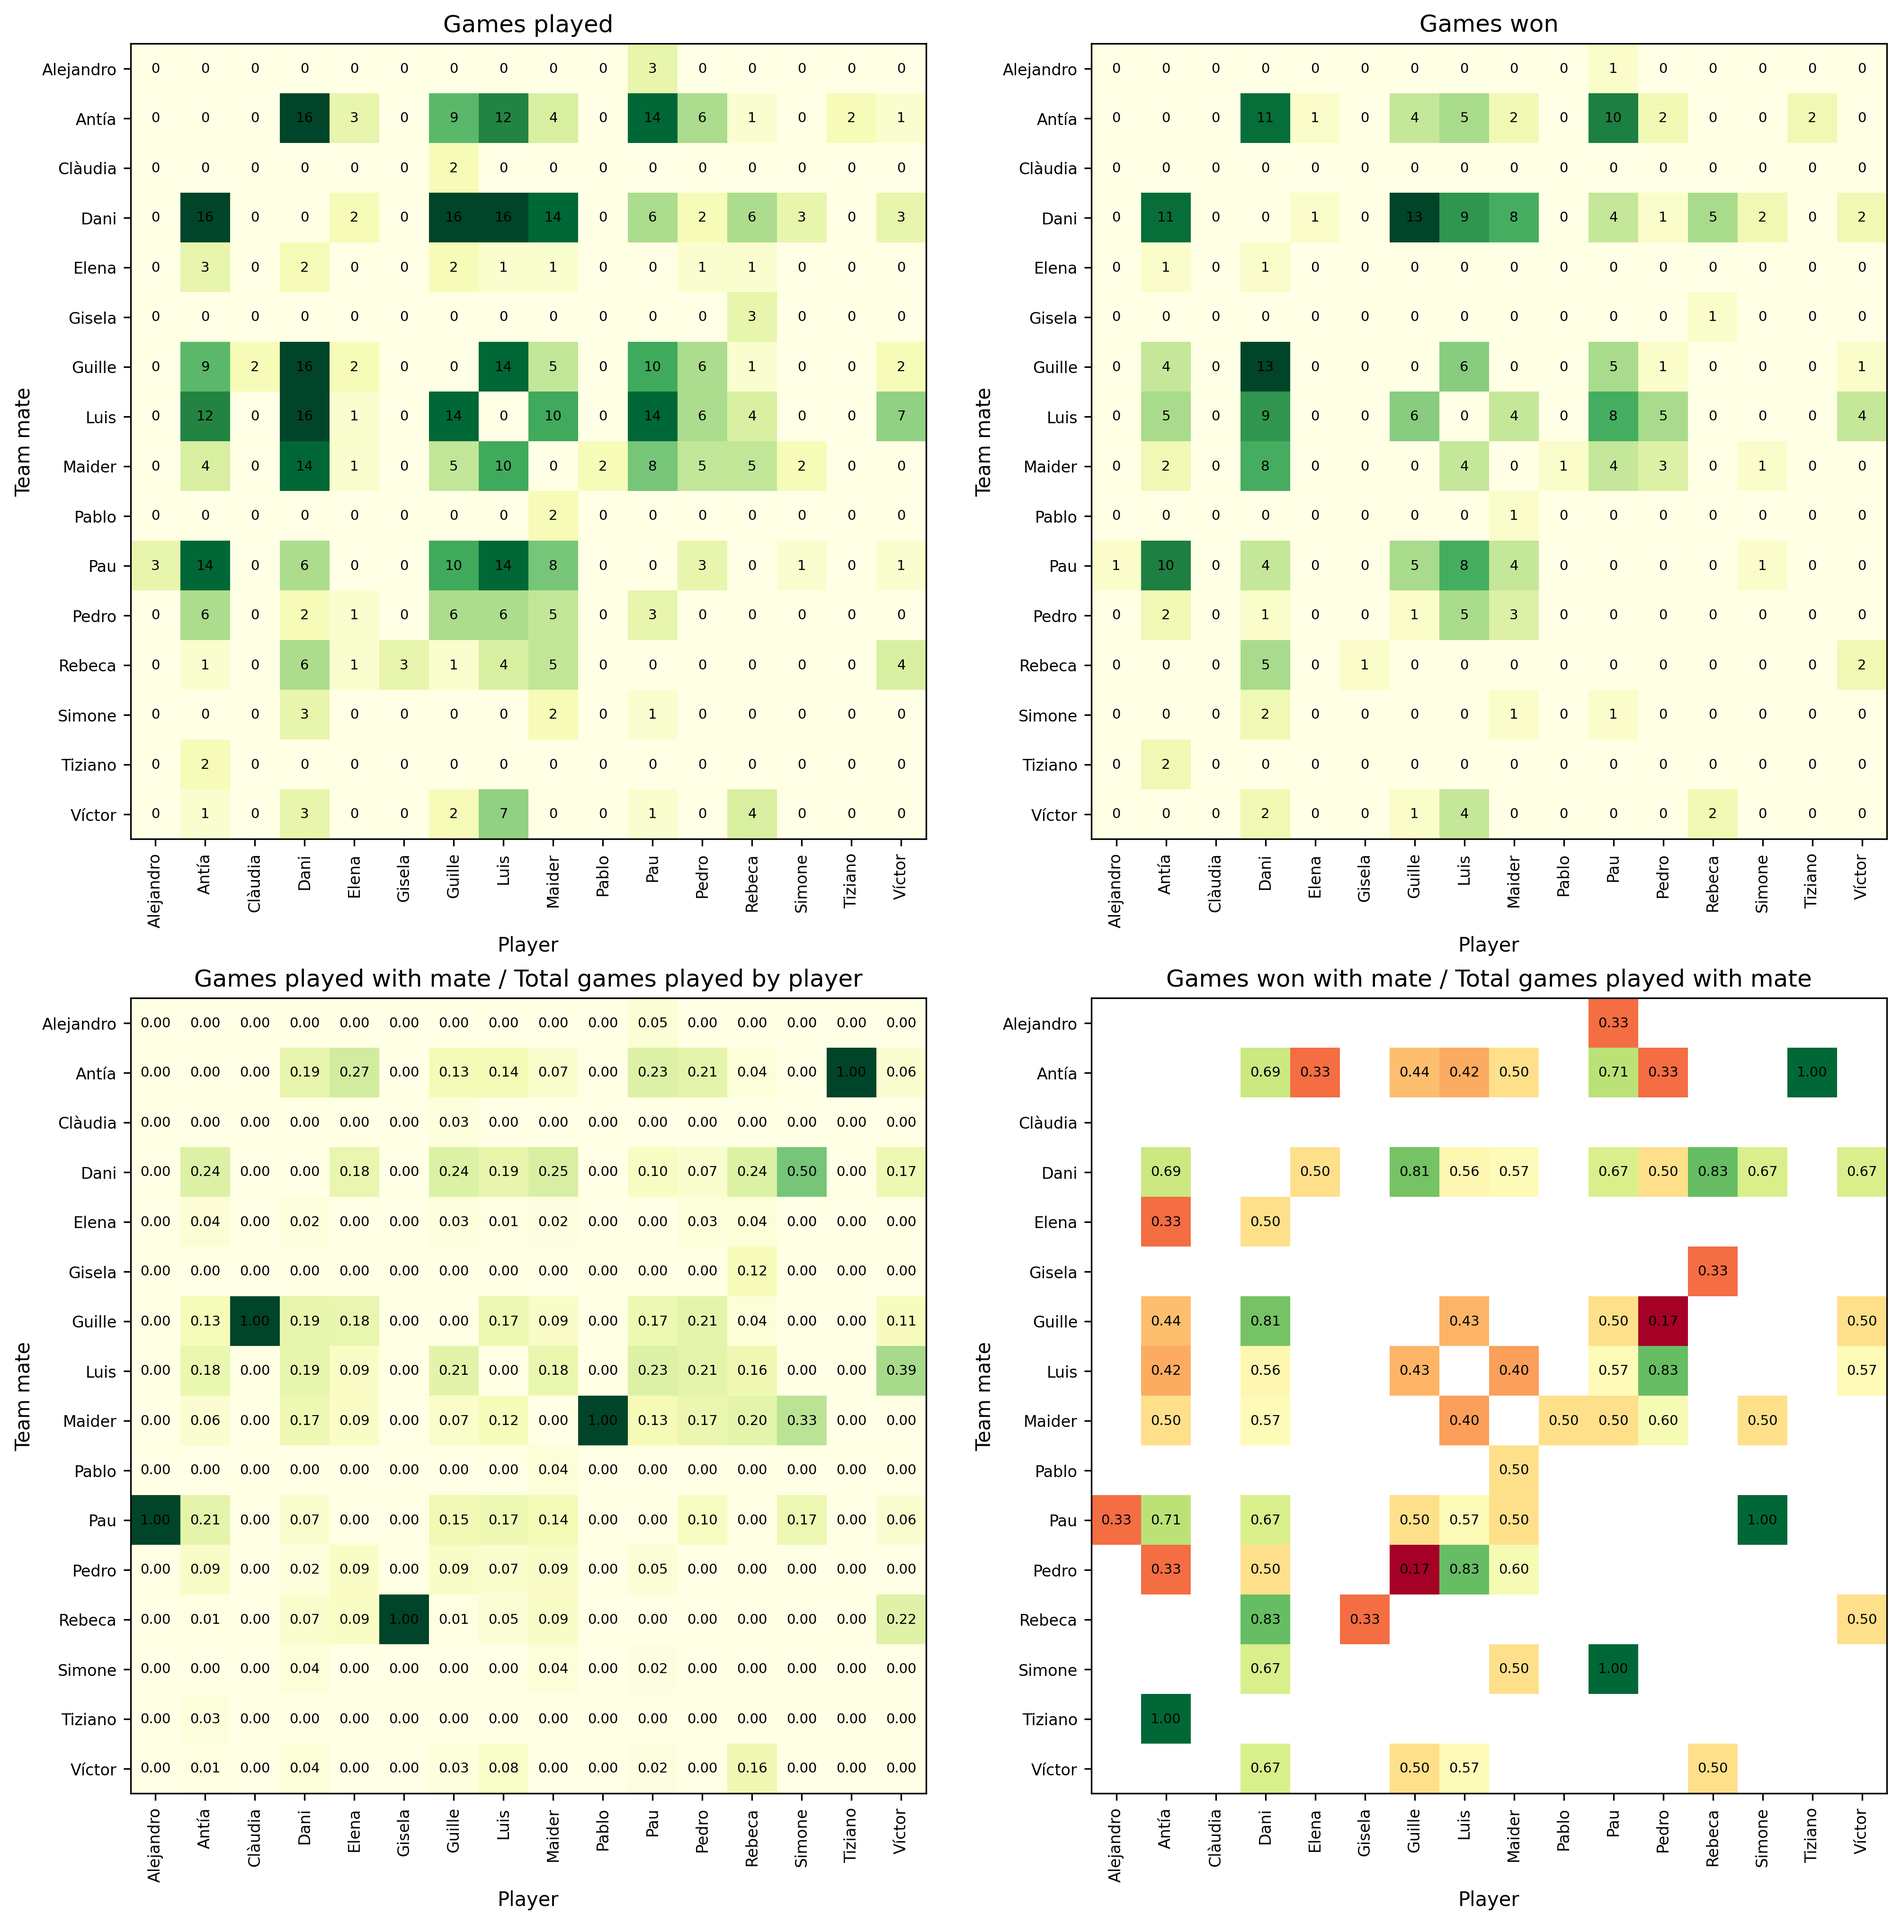
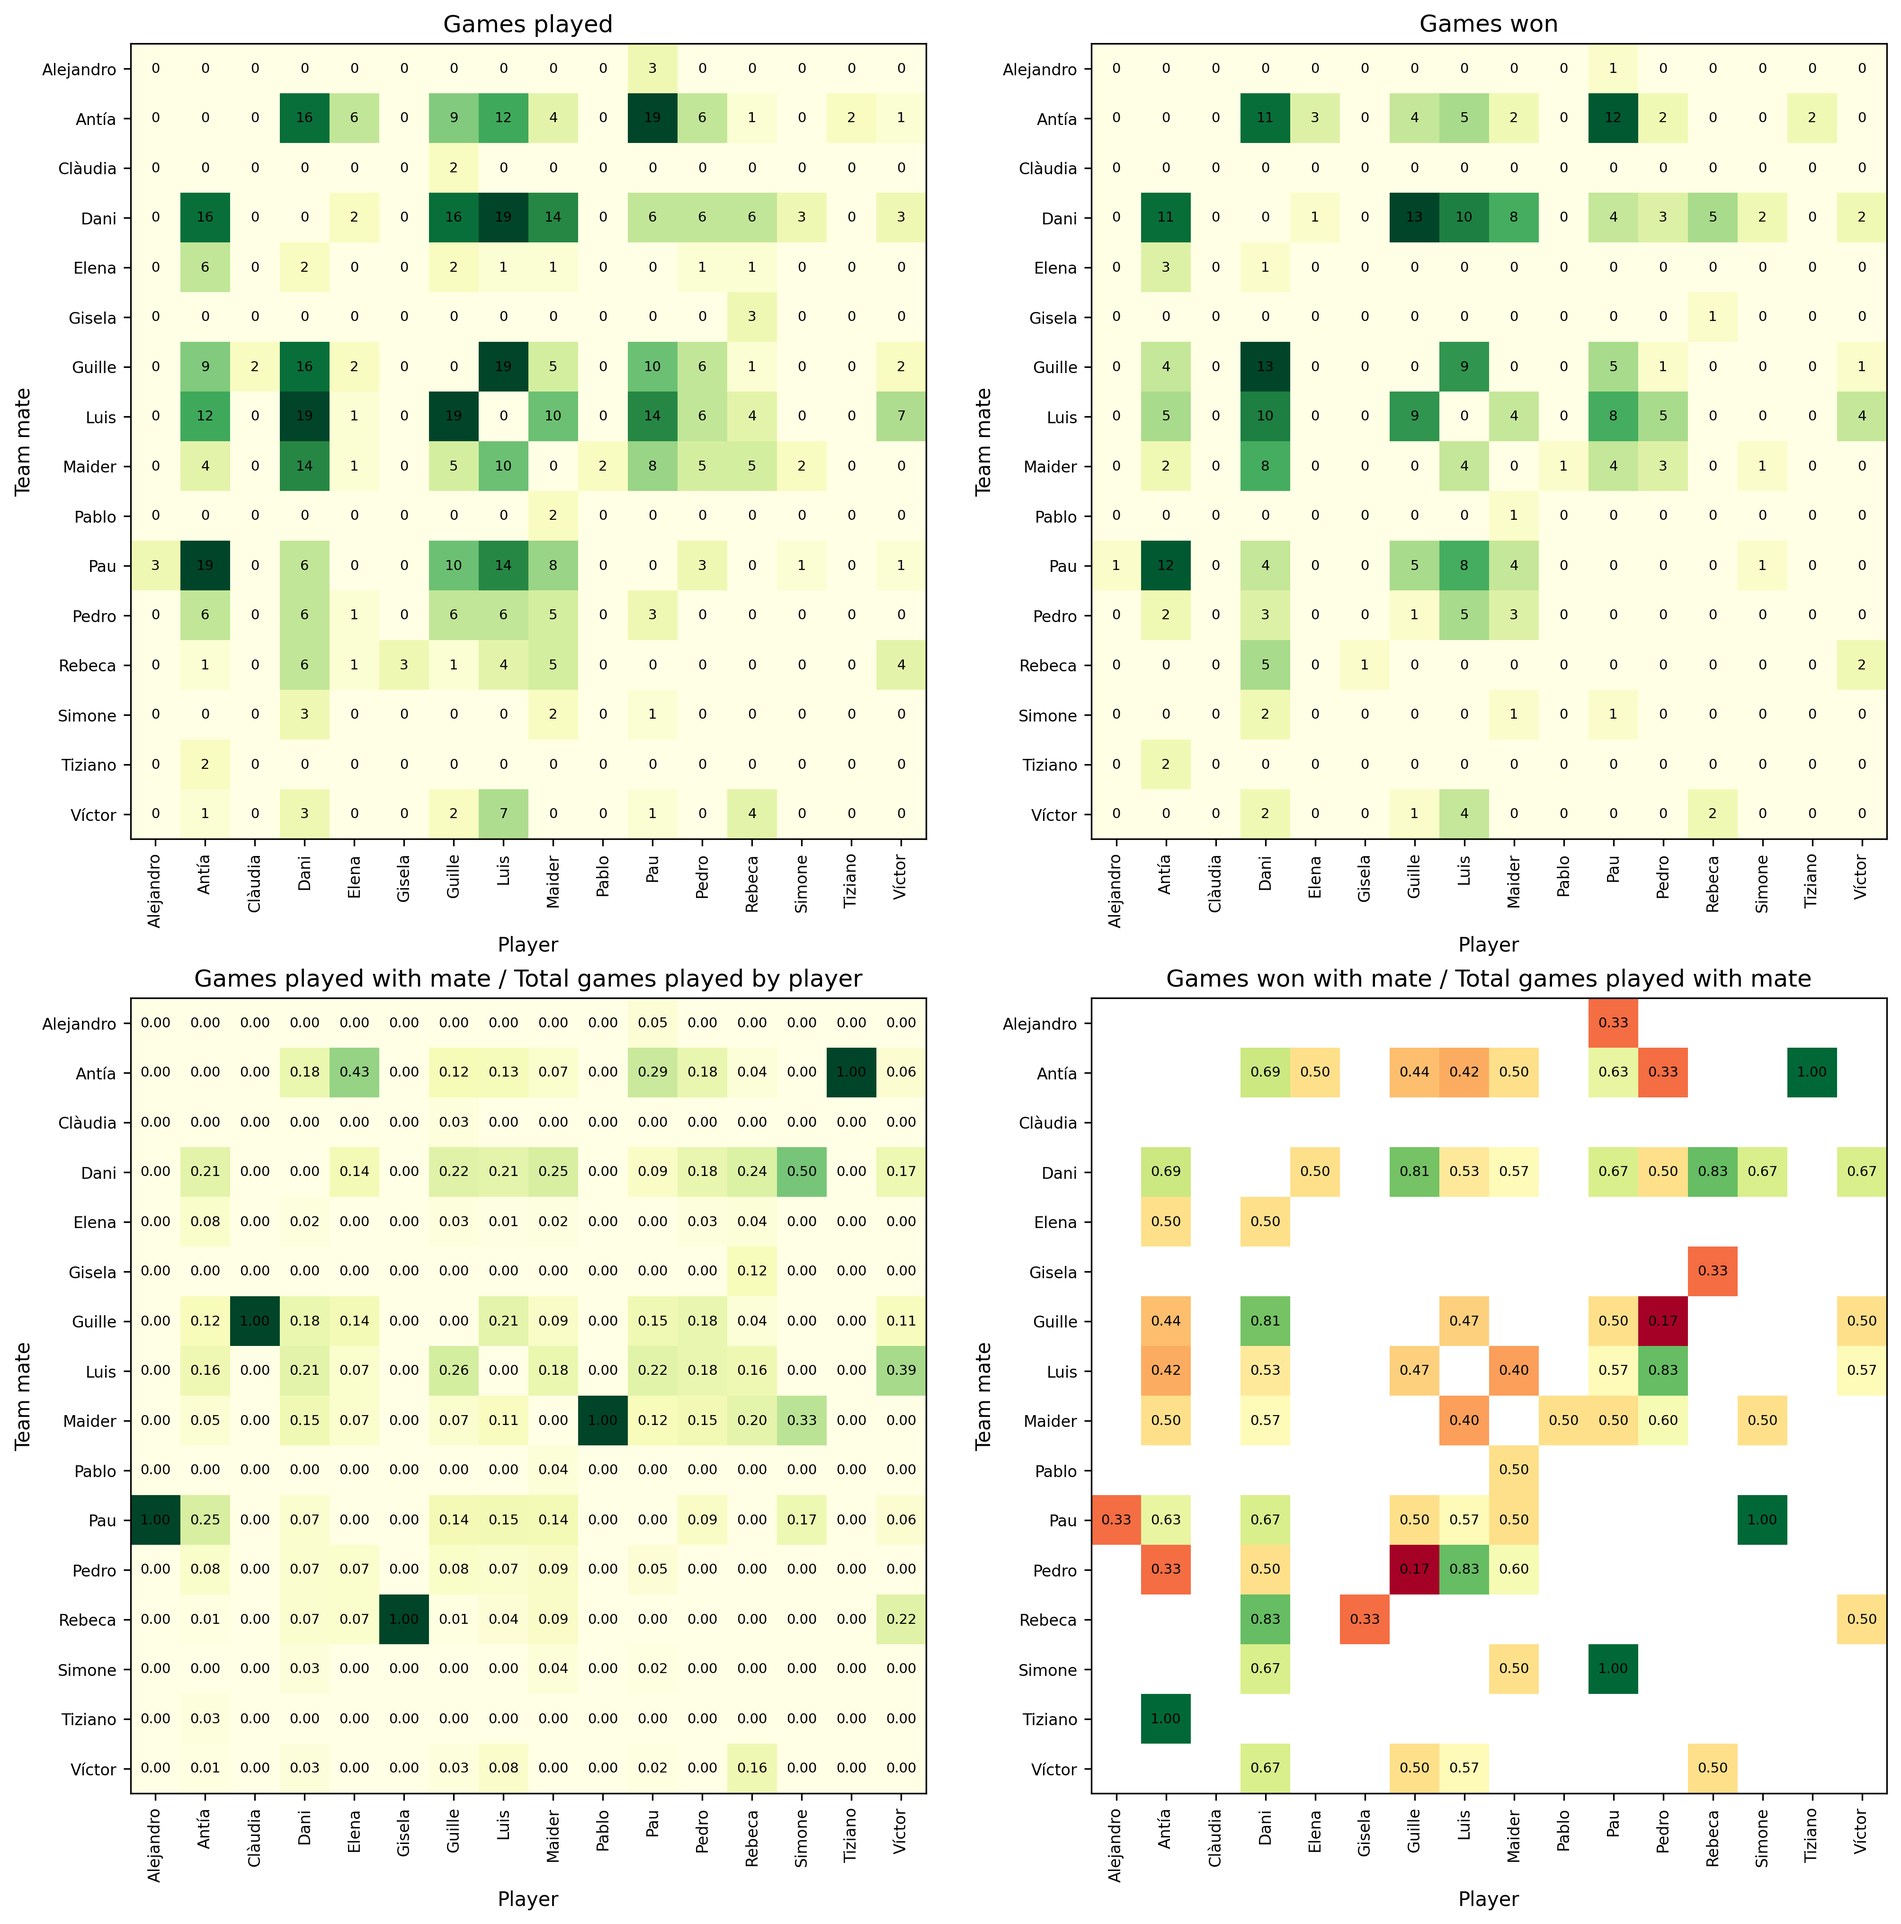
Updated to Matchday 24

diff --git a/results/winplayed_stats.html b/results/winplayed_stats.html
@@ -1,64 +1,64 @@
 <style type="text/css">
 </style>
-<table id="T_a712f">
-  <caption>Games won / Games played (Matchday 21)</caption>
+<table id="T_9071c">
+  <caption>Games won / Games played (Matchday 23)</caption>
   <thead>
     <tr>
       <th class="blank level0" >&nbsp;</th>
-      <th id="T_a712f_level0_col0" class="col_heading level0 col0" >0</th>
-      <th id="T_a712f_level0_col1" class="col_heading level0 col1" >1</th>
+      <th id="T_9071c_level0_col0" class="col_heading level0 col0" >0</th>
+      <th id="T_9071c_level0_col1" class="col_heading level0 col1" >1</th>
     </tr>
   </thead>
   <tbody>
     <tr>
-      <th id="T_a712f_level0_row0" class="row_heading level0 row0" >1</th>
-      <td id="T_a712f_row0_col0" class="data row0 col0" >Dani</td>
-      <td id="T_a712f_row0_col1" class="data row0 col1" >0.67</td>
+      <th id="T_9071c_level0_row0" class="row_heading level0 row0" >1</th>
+      <td id="T_9071c_row0_col0" class="data row0 col0" >Dani</td>
+      <td id="T_9071c_row0_col1" class="data row0 col1" >0.65</td>
     </tr>
     <tr>
-      <th id="T_a712f_level0_row1" class="row_heading level0 row1" >2</th>
-      <td id="T_a712f_row1_col0" class="data row1 col0" >Pau</td>
-      <td id="T_a712f_row1_col1" class="data row1 col1" >0.55</td>
+      <th id="T_9071c_level0_row1" class="row_heading level0 row1" >2</th>
+      <td id="T_9071c_row1_col0" class="data row1 col0" >Antía</td>
+      <td id="T_9071c_row1_col1" class="data row1 col1" >0.54</td>
     </tr>
     <tr>
-      <th id="T_a712f_level0_row2" class="row_heading level0 row2" >3</th>
-      <td id="T_a712f_row2_col0" class="data row2 col0" >Antía</td>
-      <td id="T_a712f_row2_col1" class="data row2 col1" >0.54</td>
+      <th id="T_9071c_level0_row2" class="row_heading level0 row2" >3</th>
+      <td id="T_9071c_row2_col0" class="data row2 col0" >Pau</td>
+      <td id="T_9071c_row2_col1" class="data row2 col1" >0.54</td>
     </tr>
     <tr>
-      <th id="T_a712f_level0_row3" class="row_heading level0 row3" >4</th>
-      <td id="T_a712f_row3_col0" class="data row3 col0" >Víctor</td>
-      <td id="T_a712f_row3_col1" class="data row3 col1" >0.5</td>
+      <th id="T_9071c_level0_row3" class="row_heading level0 row3" >4</th>
+      <td id="T_9071c_row3_col0" class="data row3 col0" >Víctor</td>
+      <td id="T_9071c_row3_col1" class="data row3 col1" >0.5</td>
     </tr>
     <tr>
-      <th id="T_a712f_level0_row4" class="row_heading level0 row4" >5</th>
-      <td id="T_a712f_row4_col0" class="data row4 col0" >Luis</td>
-      <td id="T_a712f_row4_col1" class="data row4 col1" >0.49</td>
+      <th id="T_9071c_level0_row4" class="row_heading level0 row4" >5</th>
+      <td id="T_9071c_row4_col0" class="data row4 col0" >Luis</td>
+      <td id="T_9071c_row4_col1" class="data row4 col1" >0.49</td>
     </tr>
     <tr>
-      <th id="T_a712f_level0_row5" class="row_heading level0 row5" >6</th>
-      <td id="T_a712f_row5_col0" class="data row5 col0" >Guille</td>
-      <td id="T_a712f_row5_col1" class="data row5 col1" >0.45</td>
+      <th id="T_9071c_level0_row5" class="row_heading level0 row5" >6</th>
+      <td id="T_9071c_row5_col0" class="data row5 col0" >Guille</td>
+      <td id="T_9071c_row5_col1" class="data row5 col1" >0.46</td>
     </tr>
     <tr>
-      <th id="T_a712f_level0_row6" class="row_heading level0 row6" >7</th>
-      <td id="T_a712f_row6_col0" class="data row6 col0" >Pedro</td>
-      <td id="T_a712f_row6_col1" class="data row6 col1" >0.41</td>
+      <th id="T_9071c_level0_row6" class="row_heading level0 row6" >7</th>
+      <td id="T_9071c_row6_col0" class="data row6 col0" >Pedro</td>
+      <td id="T_9071c_row6_col1" class="data row6 col1" >0.42</td>
     </tr>
     <tr>
-      <th id="T_a712f_level0_row7" class="row_heading level0 row7" >8</th>
-      <td id="T_a712f_row7_col0" class="data row7 col0" >Maider</td>
-      <td id="T_a712f_row7_col1" class="data row7 col1" >0.41</td>
+      <th id="T_9071c_level0_row7" class="row_heading level0 row7" >8</th>
+      <td id="T_9071c_row7_col0" class="data row7 col0" >Maider</td>
+      <td id="T_9071c_row7_col1" class="data row7 col1" >0.41</td>
     </tr>
     <tr>
-      <th id="T_a712f_level0_row8" class="row_heading level0 row8" >9</th>
-      <td id="T_a712f_row8_col0" class="data row8 col0" >Rebeca</td>
-      <td id="T_a712f_row8_col1" class="data row8 col1" >0.32</td>
+      <th id="T_9071c_level0_row8" class="row_heading level0 row8" >9</th>
+      <td id="T_9071c_row8_col0" class="data row8 col0" >Rebeca</td>
+      <td id="T_9071c_row8_col1" class="data row8 col1" >0.32</td>
     </tr>
     <tr>
-      <th id="T_a712f_level0_row9" class="row_heading level0 row9" >10</th>
-      <td id="T_a712f_row9_col0" class="data row9 col0" >Elena</td>
-      <td id="T_a712f_row9_col1" class="data row9 col1" >0.18</td>
+      <th id="T_9071c_level0_row9" class="row_heading level0 row9" >10</th>
+      <td id="T_9071c_row9_col0" class="data row9 col0" >Elena</td>
+      <td id="T_9071c_row9_col1" class="data row9 col1" >0.29</td>
     </tr>
   </tbody>
 </table>
